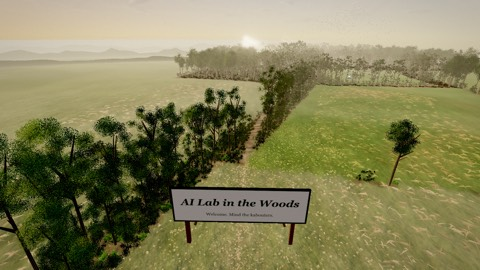
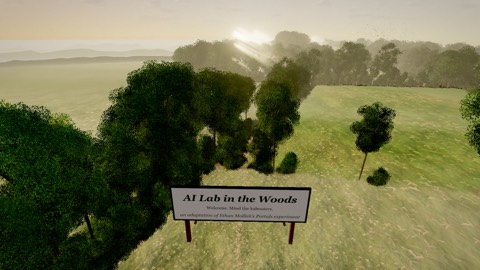
A lusher, brighter wood; credit on the welcome board
- Crowns leafed far more thickly, with larger sprays, deeper and wider;
  the count follows the machine's level of detail.
- Taller oaks and birches; the six beeches of the ring become giants.
- More ferns, more pollen in the light, light shafts wherever the way
  runs under trees, a little more haze and glow.
- The big board adds "an adaptation of Ethan Mollick's Portals
  experiment"; the gallery picture shows it.

diff --git a/src/worlds/ai-lab-in-the-woods.js b/src/worlds/ai-lab-in-the-woods.js
@@ -247,8 +247,9 @@ const boardMesh = (w, h, d, face, side) => new THREE.Mesh(new THREE.BoxGeometry(
 // the big board over the way in: 26 m across on two posts, so the flight comes over its top with the whole wood behind it
 function bigBoard(m) {
   const g = new THREE.Group(); g.name = 'groot-bord';
-  const face = plateMat([['AI Lab in the Woods', 0.42, 'italic 600 168px Georgia, serif', '#2f5a3a'],
-    ['Welcome. Mind the kabouters.', 0.76, '500 76px Georgia, serif', '#5a6a52']], { w: 2048, h: 640, bg: '#f4eedc', frame: '#2f5a3a', fw: 26, grain: 1 });
+  const face = plateMat([['AI Lab in the Woods', 0.33, 'italic 600 160px Georgia, serif', '#2f5a3a'],
+    ['Welcome. Mind the kabouters.', 0.6, '500 74px Georgia, serif', '#5a6a52'],
+    ['an adaptation of Ethan Mollick’s Portals experiment', 0.83, 'italic 500 78px Georgia, serif', '#6a7462']], { w: 2048, h: 640, bg: '#f4eedc', frame: '#2f5a3a', fw: 26, grain: 1 });
   const board = boardMesh(26, 8, 0.45, face, m.plank); board.position.y = 10; g.add(board);
   for (const px of [-10.5, 10.5]) { box(g, m.wood, 0.75, 10.4, 0.75, px, 0, -0.35); const br = box(g, m.wood, 0.45, 7.4, 0.45, px - Math.sign(px) * 2.4, 3.4, -2.6); br.rotation.x = -0.42; br.rotation.z = Math.sign(px) * 0.3; }
   for (const y of [6.4, 13.4]) box(g, m.wood, 25, 0.3, 0.3, 0, y, -0.3);
@@ -371,11 +372,11 @@ function noticeBoard(m) {
 // (broad, low, large-leaved), so the wood is made here: trunks with boughs as instances of a few shapes, bark drawn on a
 // canvas, crowns as many small cards of drawn leaves that take the light from the side the sun is on.
 const SPECIES = [
-  { name: 'eik', h: [19, 25], r: [0.2, 0.3], crown: [0.56, 1.0], spread: 4.6, cards: [30, 20], size: [2.4, 3.8], leaf: ['#4d8a2c', '#7fae3c', '#3a6e26'], bark: '#b0a494', tex: 'oak', shape: 0 },
-  { name: 'eik-slank', h: [17, 23], r: [0.15, 0.22], crown: [0.62, 1.0], spread: 3.6, cards: [24, 17], size: [2.2, 3.4], leaf: ['#56932e', '#8ab844', '#3f7428'], bark: '#a4988a', tex: 'oak', shape: 0 },
-  { name: 'berk', h: [15, 20], r: [0.1, 0.15], crown: [0.5, 1.0], spread: 2.8, cards: [20, 13], size: [1.9, 3.0], leaf: ['#74a83c', '#a4c858', '#588c30'], bark: '#e8e4da', tex: 'birch', shape: 1 },
+  { name: 'eik', h: [23, 30], r: [0.24, 0.36], crown: [0.5, 1.0], spread: 5.6, cards: [30, 20], size: [2.4, 3.8], leaf: ['#4d8a2c', '#7fae3c', '#3a6e26'], bark: '#b0a494', tex: 'oak', shape: 0 },
+  { name: 'eik-slank', h: [21, 28], r: [0.17, 0.25], crown: [0.55, 1.0], spread: 4.4, cards: [24, 17], size: [2.2, 3.4], leaf: ['#56932e', '#8ab844', '#3f7428'], bark: '#a4988a', tex: 'oak', shape: 0 },
+  { name: 'berk', h: [17, 23], r: [0.11, 0.16], crown: [0.45, 1.0], spread: 3.3, cards: [20, 13], size: [1.9, 3.0], leaf: ['#74a83c', '#a4c858', '#588c30'], bark: '#e8e4da', tex: 'birch', shape: 1 },
   { name: 'els', h: [13, 18], r: [0.12, 0.18], crown: [0.42, 1.0], spread: 2.6, cards: [20, 13], size: [2.0, 3.0], leaf: ['#3c6e2c', '#5a8a36', '#2c5424'], bark: '#7a7064', tex: 'oak', shape: 1 },
-  { name: 'beuk', h: [30, 34], r: [0.5, 0.62], crown: [0.4, 1.0], spread: 10.5, cards: [90, 60], size: [3.4, 5.4], leaf: ['#5a9632', '#96c24a', '#3e7628'], bark: '#c8c6bc', tex: 'beech', shape: 2 },
+  { name: 'beuk', h: [40, 46], r: [0.68, 0.82], crown: [0.34, 1.0], spread: 14, cards: [130, 80], size: [3.4, 5.4], leaf: ['#5a9632', '#96c24a', '#3e7628'], bark: '#c8c6bc', tex: 'beech', shape: 2 },
   { name: 'opslag', h: [3.5, 7], r: [0.03, 0.05], crown: [0.35, 1.0], spread: 1.3, cards: [7, 0], size: [1.2, 2.0], leaf: ['#7ab23e', '#a8d058', '#5c9634'], bark: '#8a8072', tex: 'oak', shape: 1 },
   // the layers under the roof, which make the wood close and woolly: shrubs leafed to the ground (rowan, juneberry, hazel, elder,
   // holly), young trees that fill the space between the shrubs and the crowns, and the bramble mat over the floor
@@ -442,7 +443,9 @@ function trunkGeometry(shape, rng) {
   return G;
 }
 // points: [{ x, y, z, s, d, v }] (v: index into SPECIES). -> { object, update(dt, t), dispose() }
-function makeWood(points, rng, sunDir) {
+// detail: the machine's level of detail (ctx.quality.detail); the crowns are leafed more thickly the more it can carry
+function makeWood(points, rng, sunDir, detail = 1) {
+  const LUSH = 1 + 1.5 * clamp(detail, 0, 1), LUSH_FAR = 1 + 0.9 * clamp(detail, 0, 1), BIG = 1.45;   // more leaves, larger sprays: a full, woolly summer wood
   const object = new THREE.Group(); object.name = 'het-bos';
   const time = { value: 0 }, disposables = [];
   const M4 = new THREE.Matrix4(), Q = new THREE.Quaternion(), Pv = new THREE.Vector3(), Sv = new THREE.Vector3(), col = new THREE.Color(), up = new THREE.Vector3(0, 1, 0), out = new THREE.Vector3(), eul = new THREE.Euler();
@@ -469,7 +472,7 @@ function makeWood(points, rng, sunDir) {
     quad(0.5, 0, 0, 0, 0.08, 0.5); quad(0.5, 0.1, 0, 0, 0.42, -0.26); quad(0, 0.1, 0.5, 0.26, 0.42, 0);   // one lying nearly flat, two leaning: a spray, not a ball
     card.setAttribute('position', new THREE.Float32BufferAttribute(pos, 3)); card.setAttribute('uv', new THREE.Float32BufferAttribute(uv, 2)); card.setAttribute('normal', new THREE.Float32BufferAttribute(nor, 3)); card.setIndex(idx); }
   const ltex = leafTexture(rng.fork('leaf'));
-  const lmat = new THREE.MeshStandardMaterial({ map: ltex, alphaTest: 0.38, side: THREE.DoubleSide, roughness: 0.78, metalness: 0, emissive: '#ffffff', emissiveMap: ltex, emissiveIntensity: 0.0 });
+  const lmat = new THREE.MeshStandardMaterial({ map: ltex, alphaTest: 0.32, side: THREE.DoubleSide, roughness: 0.78, metalness: 0, emissive: '#ffffff', emissiveMap: ltex, emissiveIntensity: 0.0 });
   lmat.onBeforeCompile = (sh) => {
     sh.uniforms.uWoodTime = time; sh.uniforms.uWoodSun = { value: sunDir.clone() };
     sh.vertexShader = sh.vertexShader.replace('#include <common>', '#include <common>\nuniform float uWoodTime; varying float vWoodThru;')
@@ -483,11 +486,11 @@ function makeWood(points, rng, sunDir) {
           totalEmissiveRadiance = diffuseColor.rgb * vec3(1.25, 1.2, 0.55) * (0.1 + 0.75 * thru); }`);
   };
   lmat.customProgramCacheKey = () => 'woods-leaves';
-  let total = 0; for (const p of points) { const sp = SPECIES[p.v]; p.cards = p.d < 55 ? sp.cards[0] : sp.cards[1]; total += p.cards; }
+  let total = 0; for (const p of points) { const sp = SPECIES[p.v]; p.cards = Math.round(p.d < 55 ? sp.cards[0] * LUSH : sp.cards[1] * LUSH_FAR); total += p.cards; }
   const leaves = new THREE.InstancedMesh(card, lmat, total); leaves.name = 'kruinen'; let n = 0;
   const cA = new THREE.Color(), cB = new THREE.Color(), cC = new THREE.Color();
   for (const p of points) {
-    const sp = SPECIES[p.v], far = p.d >= 55, y0 = p.H * sp.crown[0], y1 = p.H * sp.crown[1], cy = (y0 + y1) / 2, ry = (y1 - y0) / 2, rr = sp.spread * p.s * (p.H / ((sp.h[0] + sp.h[1]) / 2));
+    const sp = SPECIES[p.v], far = p.d >= 55, y0 = p.H * Math.max(sp.crown[0] * 0.8, sp.crown[0] - 0.1), y1 = p.H * sp.crown[1], cy = (y0 + y1) / 2, ry = (y1 - y0) / 2, rr = 1.12 * sp.spread * p.s * (p.H / ((sp.h[0] + sp.h[1]) / 2));   // crowns a little deeper and wider
     cA.set(sp.leaf[0]); cB.set(sp.leaf[1]); cC.set(sp.leaf[2]);
     const vr = sp.vary || 0, tone = rng.range(0.88 - vr, 1.1 + vr * 0.4), warm = vr ? rng.range(-vr, vr) : 0;
     if (vr) { cA.offsetHSL(warm * 0.06, 0, 0); cB.offsetHSL(warm * 0.06, 0, 0); }   // one shrub yellower, the next bluer and darker: several kinds grow together
@@ -497,7 +500,7 @@ function makeWood(points, rng, sunDir) {
       out.set(Math.cos(a) * w, v * 0.9 + 0.25, Math.sin(a) * w).normalize();
       Pv.set(p.x + Math.cos(a) * w * rr * shell, p.y + cy + v * ry, p.z + Math.sin(a) * w * rr * shell);
       Q.setFromUnitVectors(up, out.lerp(up, 0.35).normalize()); Q.multiply(new THREE.Quaternion().setFromAxisAngle(up, rng.range(0, TAU)));
-      const size = rng.range(sp.size[0], sp.size[1]) * (far ? 2.0 : 1) * Math.min(1.25, p.s);
+      const size = BIG * rng.range(sp.size[0], sp.size[1]) * (far ? 2.0 : 1) * Math.min(1.25, p.s);
       M4.compose(Pv, Q, Sv.set(size, size, size)); leaves.setMatrixAt(n, M4);
       const light = 0.5 + 0.5 * v, sun = Math.max(0, Math.cos(a) * sunDir.x + Math.sin(a) * sunDir.z);
       col.copy(cC).lerp(cA, Math.min(1, light * 1.2)).lerp(cB, 0.55 * light * shell + 0.3 * sun).multiplyScalar(tone * (0.72 + 0.28 * shell) * rng.range(0.9, 1.08));
@@ -699,14 +702,14 @@ export default {
     under(8, { count: 5200, radius: 40, corridor: 1.7, spacing: 0.85, falloff: 0.6, scale: [0.8, 1.3], density: (x, z) => inWood(x, z) * patchy(x, z, 0.09, 0.15) });
     under(6, { bounds: [-400, -230, 120, 330], count: 1700, spacing: 3.6, scale: [0.9, 1.5], density: (x, z) => (forestAt(x, z) && pathD(x, z) > 62 ? 1 : 0) });
     await ctx.yield();
-    const wood = await attempt('wood', () => makeWood(treePts, rng.fork('wood'), sunDir));
+    const wood = await attempt('wood', () => makeWood(treePts, rng.fork('wood'), sunDir, ctx.quality?.detail ?? 1));
     await ctx.yield();
     const dapple = await attempt('dapple', () => makeDapple(hAt, (x, z) => (forestAt(x, z) && !beltAt(x, z) ? 1 : 0), [-320, -240, 120, 340], rng.fork('dapple')));
     await ctx.yield();
 
     // ----- under the trees and in the grass -----
     const shade = undefined, tmpC = new THREE.Color(), gCol = (x, z, y) => groundColor(x, z, y, 1, tmpC);
-    await attempt('ferns', () => flora.makeFerns({ rng: rng.fork('ferns'), path, radius: 42, corridor: 1.6, count: 1100, scale: [0.4, 0.85], heightAt: hAt, wind, map: treeMat.map, density: (x, z) => (forestAt(x, z) ? 1 : 0) }));
+    await attempt('ferns', () => flora.makeFerns({ rng: rng.fork('ferns'), path, radius: 50, corridor: 1.6, count: 2600, scale: [0.55, 1.15], heightAt: hAt, wind, map: treeMat.map, density: (x, z) => (forestAt(x, z) ? 1 : 0) }));
     await ctx.yield();
     // the bramble mat under the oaks, and the hedgerows between the meadows
     await attempt('brambles', () => flora.makeBushes({ rng: rng.fork('bramble'), path, radius: 60, corridor: 3.5, count: 420, heightAt: hAt, wind, map: treeMat.map, scale: [0.6, 1.3],
@@ -808,7 +811,7 @@ export default {
     // ----- air: pollen in the low sun, a thread of smoke from the Gatehouse stove, a little mist over the wet meadow -----
     const time = { value: 0 }, set = fx.fxGroup(); scene.add(set.object);
     const tryFx = (what, fn) => { try { return set.add(fn()); } catch (e) { warn(what, e); return null; } };
-    tryFx('pollen', () => fx.makeParticles({ rng: rng.fork('pollen'), preset: 'pollen', time, count: 420, box: [46, 12, 46], follow: 'xz', center: [0, G + 5, 0], opacity: 0.5, lightDir: sunDir }));
+    tryFx('pollen', () => fx.makeParticles({ rng: rng.fork('pollen'), preset: 'pollen', time, count: 1100, box: [56, 16, 56], follow: 'xz', center: [0, G + 5, 0], opacity: 0.7, lightDir: sunDir }));
     { const p = gr.userData.pipe.clone().applyMatrix4(gr.updateMatrixWorld(true) || gr.matrixWorld);
       tryFx('smoke', () => fx.makeSmokeColumn({ rng: rng.fork('smoke'), time, position: [p.x, p.y, p.z], count: 34, height: 11, radius: [0.12, 1.6], size: [0.5, 3.4], color: '#cfc9c0', colorTop: '#efe9df', shadowColor: '#8a857c',
         opacity: 0.4, rate: 0.09, wind: [0.9, 0, -0.5], bend: 0.9, rim: 0.4, scatter: 0.4, sunDir, sunColor: sunCol })); }
@@ -816,10 +819,14 @@ export default {
     { const down = sunDir.clone().negate(), rayCol = '#ffe6ae';
       const shafts = (label, x, z, o) => tryFx(label, () => { const len = o.length, src = new THREE.Vector3(x, G + 1, z).addScaledVector(down, -len * 0.92);
         return fx.makeGodRays({ rng: rng.fork(label), time, position: [src.x, src.y, src.z], direction: [down.x, down.y, down.z], color: rayCol, ...o }); });
-      shafts('rays-oak', -46, -13, { radius: 20, count: 12, length: 62, width: [1.5, 5.5], intensity: 0.6 });
-      shafts('rays-lane', -40, -54, { radius: 22, count: 12, length: 62, width: [1.5, 5.5], intensity: 0.6 });
-      shafts('rays-ring', RING.x, RING.z, { radius: 13, count: 16, length: 84, width: [2, 7], intensity: 0.9 }); }
-    tryFx('mist', () => fx.makeGroundFog({ time, layers: 4, size: 620, y: G + 0.4, height: 3.2, color: '#f6e4b4', opacity: 0.11, coverage: 0.5, scale: 0.012, wind: [0.5, -0.3], sunDir, sunColor: sunCol, scatter: 0.5 }));
+      // (the light falls in through the roof wherever the way runs under trees: the track in, the edge of the meadow, the wood to the ring)
+      shafts('rays-track', -232, 44, { radius: 22, count: 14, length: 70, width: [1.5, 6], intensity: 1.1 });
+      shafts('rays-edge', -97, 36, { radius: 18, count: 12, length: 66, width: [1.5, 6], intensity: 1.0 });
+      shafts('rays-oak', -46, -13, { radius: 22, count: 16, length: 70, width: [1.5, 6.5], intensity: 1.15 });
+      shafts('rays-lane', -40, -54, { radius: 24, count: 16, length: 70, width: [1.5, 6.5], intensity: 1.15 });
+      shafts('rays-clearing', -92, -64, { radius: 26, count: 14, length: 72, width: [2, 7], intensity: 1.0 });
+      shafts('rays-ring', RING.x, RING.z, { radius: 16, count: 24, length: 100, width: [2, 8], intensity: 1.6 }); }
+    tryFx('mist', () => fx.makeGroundFog({ time, layers: 4, size: 620, y: G + 0.4, height: 3.2, color: '#f6e4b4', opacity: 0.15, coverage: 0.55, scale: 0.012, wind: [0.5, -0.3], sunDir, sunColor: sunCol, scatter: 0.5 }));
     await ctx.yield();
 
     // ----- where the eye goes -----
@@ -848,7 +855,7 @@ export default {
       camera: { fov: 60, near: 0.3, far: 2400, lookAhead: 20, sway: 0.5, bank: 0.4 },
       pois,
       portal: { shape: 'circle', radius: 3.8, color: '#fff3cf', glow: 1.3, revealDistance: 120 },
-      post: { exposure: 1.04, bloom: { strength: 0.46, radius: 0.7, threshold: 0.88 } },
+      post: { exposure: 1.04, bloom: { strength: 0.58, radius: 0.75, threshold: 0.84 } },
       // brisk between the stations of the story, slow enough at each to read its board
       pace: (u) => { let k = 1; for (const r of READ) k = Math.min(k, 0.36 + 0.64 * smoothstep(0.014, 0.045, Math.abs(u - r))); return (u < 0.07 ? 1.5 : 1.25) * k; },
       update(dt, t, camera, u) {
